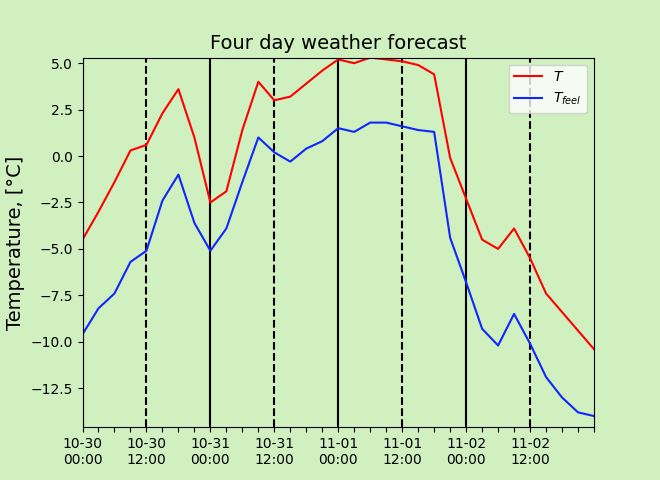
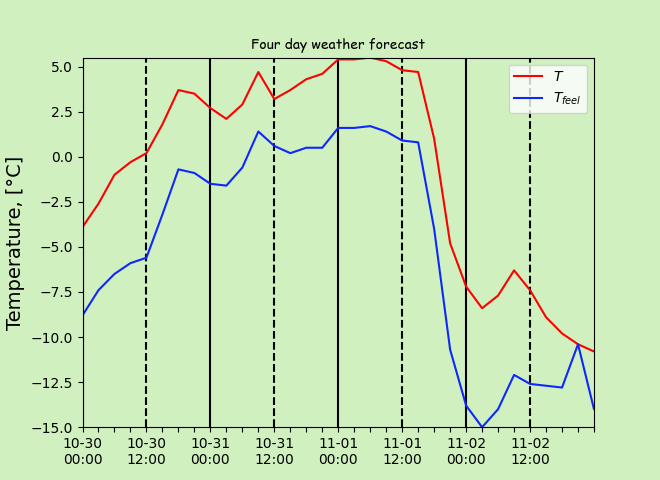
bug fixed

diff --git a/Weather_API_GUI/Weather_v5.py b/Weather_API_GUI/Weather_v5.py
@@ -39,31 +39,35 @@ class App:
         # Узнаем текущую дату в формате год-месяц-число
         self.current_data = self.get_current_data()
 
-        # Создаем рабочую область и тему
+        # Создаем рабочую область и настриваем оформление
         self.window = tk.Tk()
+        style = ttk.Style()
+        style.map('TCombobox', fieldbackground=[('readonly', 'white')])
+        style.map('TCombobox', selectbackground=[('readonly', 'none')])
+        style.map('TCombobox', selectforeground=[('readonly', 'black')])
         self.window.title("Weather forecast")
         w_height, w_width = 660, 775
-        self.window.geometry('{}x{}'.format(w_height,w_width))
+        self.window.geometry('{}x{}'.format(w_height, w_width))
         self.window.resizable(False, False)  # Запрещаем менять размер окна
-        self.bg_color = '#D0F0C0'  # Выбираем цвет фона the best is'#FDEAA8' last #D7FDFC
+        self.bg_color = '#D0F0C0'  # Выбираем цвет фона
         self.font = 'Comic Sans MS'
         self.font_size = 16
         self.window['bg'] = self.bg_color
 
-        # Централизуем положения окна
+        # Централизуем положения окна. Набор стандартных инструкций из интернета
         self.window.withdraw()
         self.window.update_idletasks()  # Update "requested size" from geometry manager
-        print(self.window.winfo_screenwidth(), self.window.winfo_reqwidth())
         x = (self.window.winfo_screenwidth() - w_width) / 2
         y = (self.window.winfo_screenheight() - w_height) / 2
         self.window.wm_geometry("+%d+%d" % (x, y))
         self.window.deiconify()
 
+        # Пример загрузки готовой темы
         # self.window.tk.call("source", "sun-valley.tcl")
         # self.window.tk.call("set_theme", "light")
 
         # Уточняем местоположение пользователя
-        self.city_mes = tk.messagebox.askquestion(title='Location',
+        city_mes = tk.messagebox.askquestion(title='Location',
                                                   message='Hello, {}, are you from {}?'.format(name, self.city))
         # Выбор города ТЕКСТ СЛЕВА ОТ БОКСА ВЫБОРА ГОРОДА
         self.greetings = tk.Label(self.window,
@@ -77,14 +81,15 @@ class App:
         self.city_list.append(self.city)
 
         # Создаем БОКС ВЫБОРА ГОРОДА
-        self.city_box = Combobox(self.window, font=(self.font, 20), justify='left')
-        self.city_box['values'] = self.city_list
+        self.city_box = Combobox(self.window, values=self.city_list,
+                                 state='readonly', font=(self.font, 20),
+                                 justify='left', background='white', foreground="black")
 
         # Обработка диалогового окна Location
-        if self.city_mes == 'yes':
+        if city_mes == 'yes':
             self.city_box.current(len(self.city_list) - 1)
             self.weather_info()
-        if self.city_mes == 'no':
+        if city_mes == 'no':
             messagebox.showinfo(title='Location',
                                 message='Choose a city from the list')
             self.city_box.current(0)
@@ -351,7 +356,7 @@ class App:
         ax.xaxis.set_major_formatter(formatter)
         ax.set_xlim(xmin, xmax)
         ax.set_ylim(ymin, ymax)
-        ax.set_title("Four day weather forecast", fontsize=14, color='black')
+        ax.set_title("Four day weather forecast", fontsize=14, color='black', font=self.font)
         ax.set_ylabel("Temperature, [°C]", fontsize=14, color='black')
 
         for i in np.arange(self.start_time,self.end_time,8):  # 38

diff --git a/Weather_API_GUI/README.md b/Weather_API_GUI/README.md
@@ -6,7 +6,10 @@
 # Работа с программой:
 1) Зарегистрироваться и сгенерировать API ключ: https://home.openweathermap.org/api_keys
 2) Создать текстовый файл API.txt в директории py-файла и вставить в него API-ключ
-3) Для корректной работы исходника выполнить pip3 install lxml
+3) Для корректной работы исходника выполнить: 
+* pip3 install lxml
+* sudo apt install font-manager
+* sudo apt-get install msttcorefonts -qq
 
 
 
